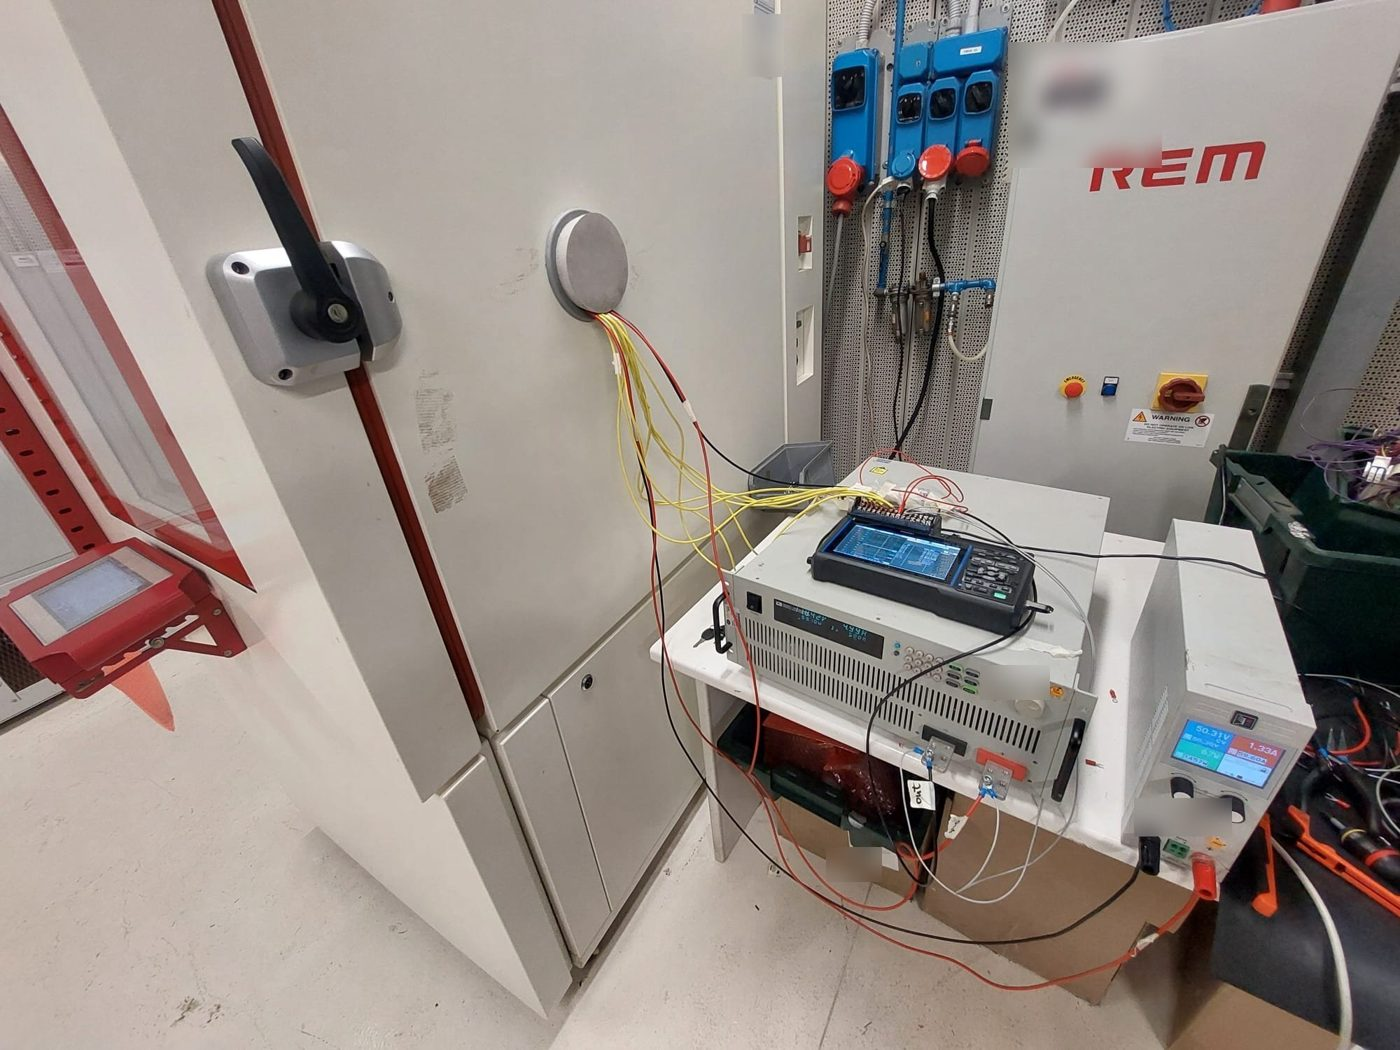
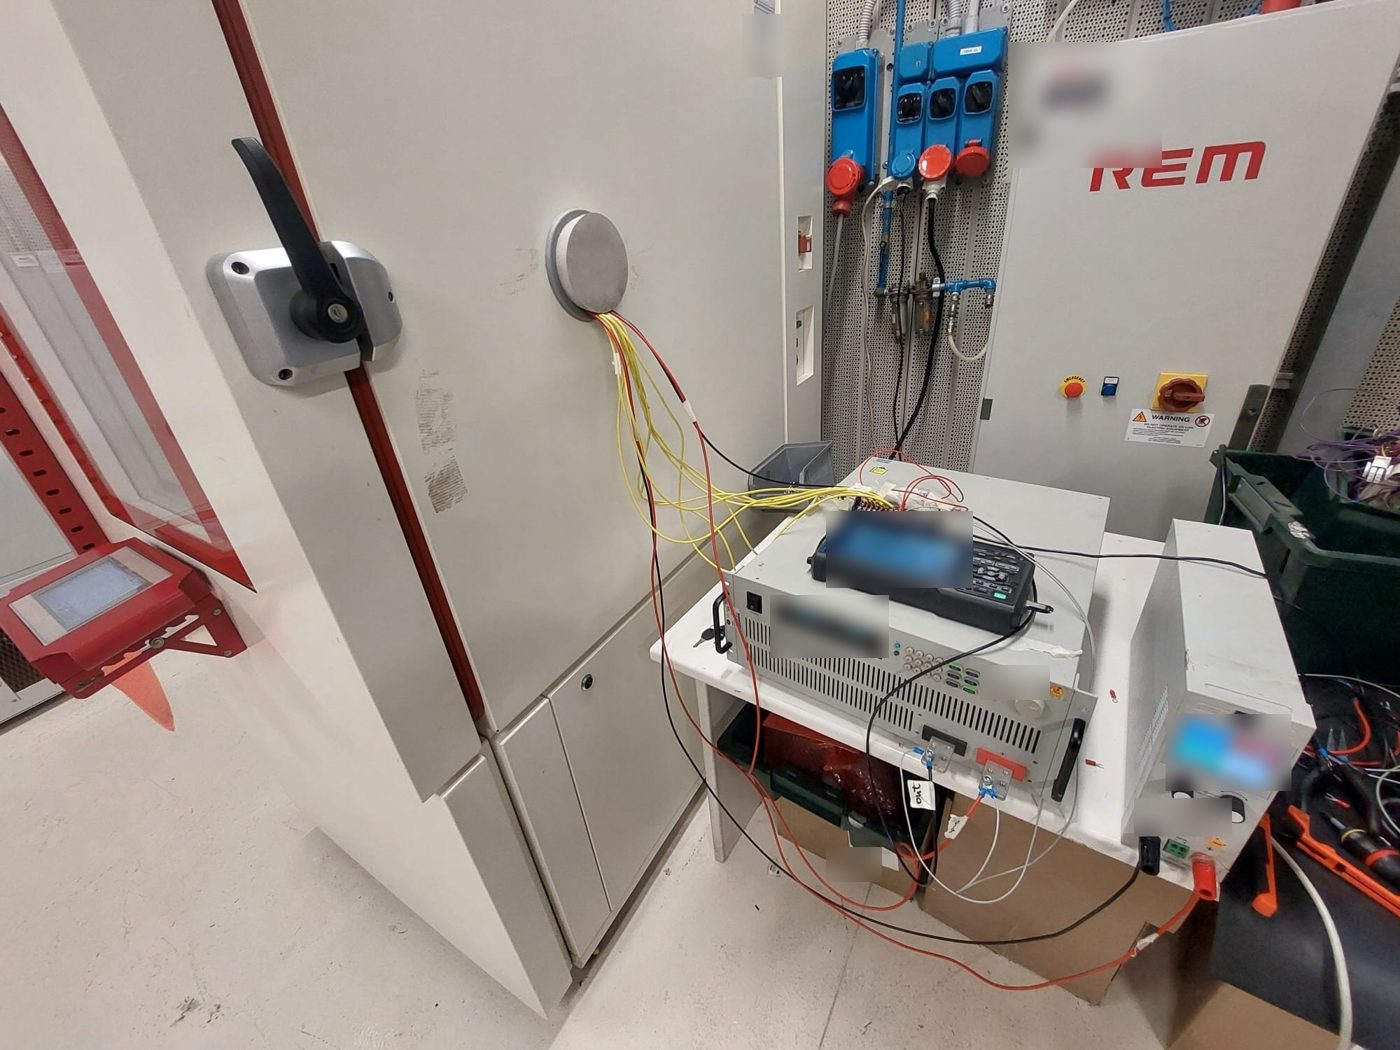
Update STIGA experience, add DC-DC test case study and test workflow panel
Claude-Session: https://claude.ai/code/session_01Xbdi1kyDJhNznJnVNau7nT

Changed region(s): [[0.5529, 0.4876, 0.7064, 0.64], [0.8293, 0.6705, 0.9214, 0.7619]]

diff --git a/projects.html b/projects.html
@@ -43,10 +43,10 @@
   <nav class="discipline-nav" aria-label="Disciplines">
     <div class="wrap">
       <ul>
-        <li><a href="#projects" data-filter="all" class="active">All <span class="count">11</span></a></li>
+        <li><a href="#projects" data-filter="all" class="active">All <span class="count">12</span></a></li>
         <li><a href="#mechanical" data-filter="mechanical">Mechanical Design <span class="count">2</span></a></li>
         <li><a href="#control" data-filter="control">Control Systems <span class="count">2</span></a></li>
-        <li><a href="#automation" data-filter="automation">Industrial Automation <span class="count">4</span></a></li>
+        <li><a href="#automation" data-filter="automation">Industrial Automation <span class="count">5</span></a></li>
         <li><a href="#embedded" data-filter="embedded">Other <span class="count">3</span></a></li>
       </ul>
     </div>
@@ -101,6 +101,12 @@
         <span class="label">Industrial Automation</span>
         <strong>Test-data &amp; report generator</strong>
         <span class="pcard-text">Python desktop app that turns logger and CAN data into a finished Word report.</span>
+      </a>
+      <a class="pcard" href="#dcdc-test" data-discipline="automation">
+        <img src="assets/img/thumbs/dcdc-test.jpg" alt="" loading="lazy" width="640" height="400">
+        <span class="label">Industrial Automation</span>
+        <strong>DC-DC converter thermal test</strong>
+        <span class="pcard-text">Thermal stability and OCP, OVP, UVP checks in a climate chamber.</span>
       </a>
     </div>
     <div class="other-projects">
@@ -514,7 +520,7 @@ Hz = (3*Tc^2*s^2 + 3*Tc*s + 1) / (Tc*s + 1)^3;</code></pre>
       <header>
         <span class="label">Discipline 3 of 3</span>
         <h2>Industrial Automation</h2>
-        <p>Siemens TIA Portal V15 programs tested against Factory I/O plant models through S7-PLCSIM, a virtual-commissioning workflow, plus an in-house Python tool that automates test-data analysis and reporting. The demo videos play silently.</p>
+        <p>Siemens TIA Portal V15 programs tested against Factory I/O plant models through S7-PLCSIM, a virtual-commissioning workflow, plus an in-house Python tool that automates test-data analysis and reporting, and a component test from industry. The demo videos play silently.</p>
       </header>
 
       <article class="project" id="plc-sorting">
@@ -577,6 +583,15 @@ Hz = (3*Tc^2*s^2 + 3*Tc*s + 1) / (Tc*s + 1)^3;</code></pre>
           <h3>Test-data analysis and report generator</h3>
         </div>
         <p>Writing a test report used to mean exporting logger data, cleaning it in spreadsheets, building plots by hand and pasting everything into a Word template. I built a desktop application that does the whole chain in one place: it reads data-logger and CAN-bus logs, lets the engineer clean and analyse the signals interactively, and generates a complete, numbered Word report from a template in one click.</p>
+        <div class="howto">
+          <h4>How I run a test</h4>
+          <ol>
+            <li><b>Bench and instruments</b><span>Fixture, sensors and wiring set up to the procedure, instruments checked for calibration.</span></li>
+            <li><b>Data logging</b><span>Hioki data logger for voltage, current and temperature, CAN-bus logs for speed, current and fault codes.</span></li>
+            <li><b>Analysis</b><span>Logs cleaned, aligned and plotted in this Python tool, results checked against the acceptance criteria.</span></li>
+            <li><b>Issued report</b><span>Procedure, acceptance criteria, results and a pass/fail verdict, generated as a numbered Word report.</span></li>
+          </ol>
+        </div>
         <figure class="single" style="max-width:none">
           <img src="assets/img/report-tool-flow.png" alt="Five-step workflow: inputs, clean and align, analyse, assemble, generate a numbered Word report" loading="lazy">
           <figcaption>Workflow of the application. Each step is a tab in the GUI.</figcaption>
@@ -663,6 +678,34 @@ Hz = (3*Tc^2*s^2 + 3*Tc*s + 1) / (Tc*s + 1)^3;</code></pre>
           </details>
         </div>
       </article>
+
+      <article class="project" id="dcdc-test">
+        <div class="split">
+          <figure class="stack" style="margin:0">
+            <img src="assets/img/dcdc-setup.jpg" alt="DC-DC converter wired through a climate chamber port to an electronic load, a data logger and a bench supply" loading="lazy">
+            <figcaption>Test bench: converter inside the climate chamber, electronic load, data logger and supply outside. Labels and readings blurred.</figcaption>
+          </figure>
+          <div class="stack">
+            <div class="project-head">
+              <span class="context">Industry case study · component verification</span>
+              <h3>DC-DC converter thermal and protection test</h3>
+            </div>
+            <p>The goal was to check that a DC-DC converter stays thermally stable at its rated current in the worst-case ambient, and that its protections trip the way the datasheet says.</p>
+            <ul>
+              <li>7 thermocouples on the converter, mounted as on the machine, inside a climate chamber at 40 °C (worst case).</li>
+              <li>Converter fed from a constant-voltage supply, output current raised in steps with an electronic load.</li>
+              <li>Each step held until thermal stability: shell temperature rising less than 0.5 °C per 5 min.</li>
+              <li>Temperature, current and voltage logged with a Hioki data logger at 10 ms.</li>
+              <li>Over-current, over-voltage and under-voltage protections (OCP, OVP, UVP) then triggered and checked against the datasheet.</li>
+            </ul>
+            <p><strong>Result:</strong> the converter stayed thermally stable slightly above its rated current, and all three protections tripped within the datasheet limits.</p>
+            <p><strong>My role:</strong> I set up the bench and instruments, ran the test, analysed the data and wrote the report.</p>
+            <p class="note">Product, part numbers and measured values are not shown.</p>
+            <ul class="tools"><li>Climate chamber</li><li>Thermocouples</li><li>Hioki data logger</li><li>Electronic load</li><li>OCP / OVP / UVP</li><li>Python analysis</li></ul>
+          </div>
+        </div>
+      </article>
+
 
     </div>
   </section>

diff --git a/index.html b/index.html
@@ -82,7 +82,7 @@
         <span class="pcard-text">Siemens S7 program sorting parts by height in Factory I/O.</span>
       </a>
       </div>
-      <p class="preview-more"><a class="btn ghost" href="projects.html">See all 11 projects</a></p>
+      <p class="preview-more"><a class="btn ghost" href="projects.html">See all 12 projects</a></p>
     </div>
   </section>
 
@@ -96,17 +96,15 @@
         <article class="role">
           <div class="when">Apr 2025 – present<br>Italy</div>
           <div>
-            <h3>Control Systems Engineer, Robotics Testing &amp; Validation</h3>
+            <h3>Control &amp; Testing Engineer</h3>
             <div class="org">STIGA</div>
             <ul>
-              <li>Analyse and validate closed-loop motor and vehicle-motion behaviour on autonomous electric platforms: speed tracking, torque response, braking and stability under changing load.</li>
-              <li>Plan and run system-level test campaigns on control limits, fault handling and transient response, using real-time CAN-bus diagnostics to support firmware and control-strategy changes.</li>
-              <li>Integrate and debug traction motors, motor controllers, LiDAR sensors and NVIDIA Jetson computers on prototypes.</li>
-              <li>Run environmental stress tests from −20 °C to +70 °C in climatic chambers, instrumenting motor sockets, battery packs and logic enclosures with thermocouples to assess heat dissipation, mechanical stress and structural integrity.</li>
-              <li>Characterise high-current DC-DC converters, cutting decks and drive assemblies with electronic loads and shunt resistors, measuring efficiency, power dissipation and duty-cycle limits under continuous operation.</li>
-              <li>Handle mechanical bring-up of PP0/PP1 prototype chassis: install, align and validate sub-assemblies, cutting-height actuators and braking hardware.</li>
-              <li>Built a Python desktop tool (PySide6, pandas, docxtpl) that turns data-logger and CAN-bus logs into finished, numbered Word test reports. <a href="projects.html#report-tool">See the project</a></li>
-              <li>Lead 350+ hour endurance campaigns tracking structural vibration, heat-sink performance and component wear under varying outdoor turf loads.</li>
+              <li>Carried out 25+ tests from start to finish: set up the test benches and instruments, collected and analysed the data, and wrote and issued the reports, each with procedure, acceptance criteria, results and a pass/fail verdict.</li>
+              <li>Wrote the functional validation checklists (based on EN 50636) for an autonomous robot's firmware and app, and used them for acceptance checks of firmware releases, both production and over-the-air updates.</li>
+              <li>Verified electrical and electronic components against standards and internal norms: PCB vibration tests, DC-DC converter thermal and protection tests, emergency-stop function and brakes to ISO 5395-3. <a href="projects.html#dcdc-test">See the DC-DC case study</a></li>
+              <li>Measured voltage, current, power and temperature with Hioki data loggers and read motor speed, bus current and fault codes from CAN-bus logs to find root causes and support firmware improvements.</li>
+              <li>Integrate and debug motors, motor controllers, batteries, sensors, LiDAR and NVIDIA Jetson computers on prototype machines.</li>
+              <li>Built a Python desktop tool on my own initiative that turns data-logger and CAN-bus logs into a finished Word test report. <a href="projects.html#report-tool">See the project</a></li>
             </ul>
             <div class="role-media">
               <figure>
@@ -115,7 +113,7 @@
               </figure>
               <figure>
                 <img src="assets/img/dcdc-setup.jpg" alt="DC-DC converter wired through a climatic chamber port to an electronic load, power analyser and bench supply" loading="lazy">
-                <figcaption>DC-DC converter characterisation in a climatic chamber: programmable electronic load, power analyser and bench supply.</figcaption>
+                <figcaption>DC-DC converter thermal and protection test in a climate chamber: electronic load, data logger and bench supply. <a href="projects.html#dcdc-test">Case study</a></figcaption>
               </figure>
             </div>
           </div>

diff --git a/assets/style.css b/assets/style.css
@@ -416,3 +416,11 @@ section.discipline[hidden] { display: none; }
 .pcard.mini .label { padding-top: 10px; }
 .pcard.mini strong { font-size: 0.9375rem; }
 .pcard.mini .pcard-text { padding-bottom: 10px; font-size: 0.8125rem; }
+
+.howto { border: 1px solid var(--line); border-radius: var(--radius); background: var(--surface); padding: 16px 18px; }
+.howto h4 { margin: 0 0 12px; font-size: 0.9375rem; }
+.howto ol { list-style: none; counter-reset: st; margin: 0; padding: 0; display: grid; gap: 14px; grid-template-columns: repeat(auto-fit, minmax(min(100%, 200px), 1fr)); }
+.howto li { counter-increment: st; display: grid; gap: 4px; align-content: start; }
+.howto li b::before { content: counter(st) ". "; color: var(--accent); font-family: var(--font-mono); }
+.howto li b { font-size: 0.9375rem; }
+.howto li span { font-size: 0.875rem; color: var(--muted); line-height: 1.45; }
